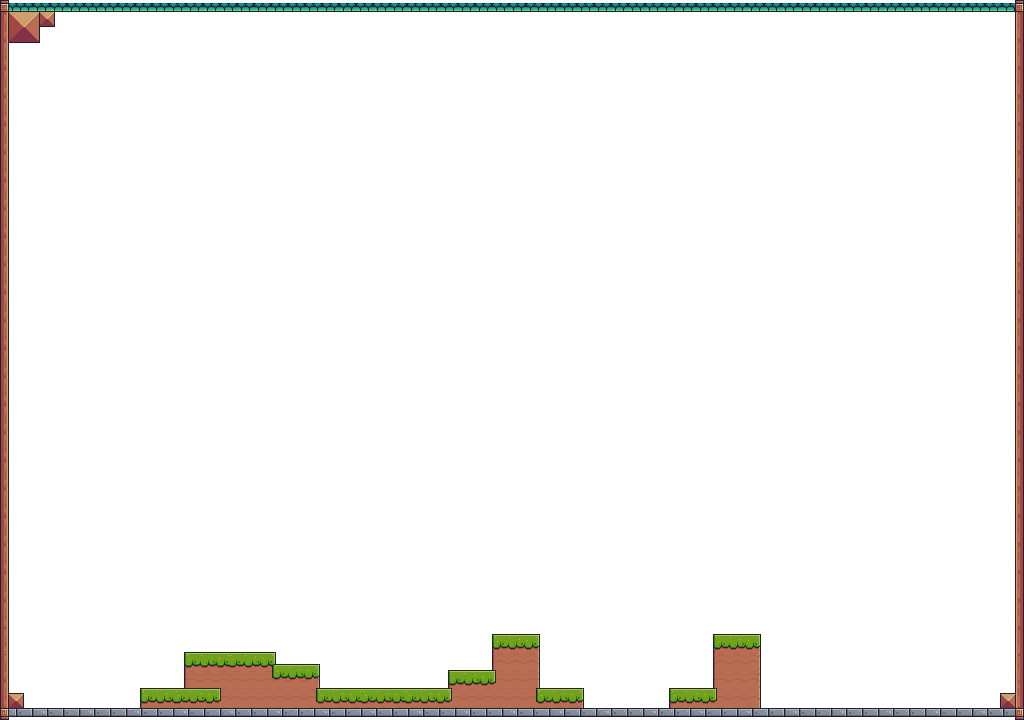
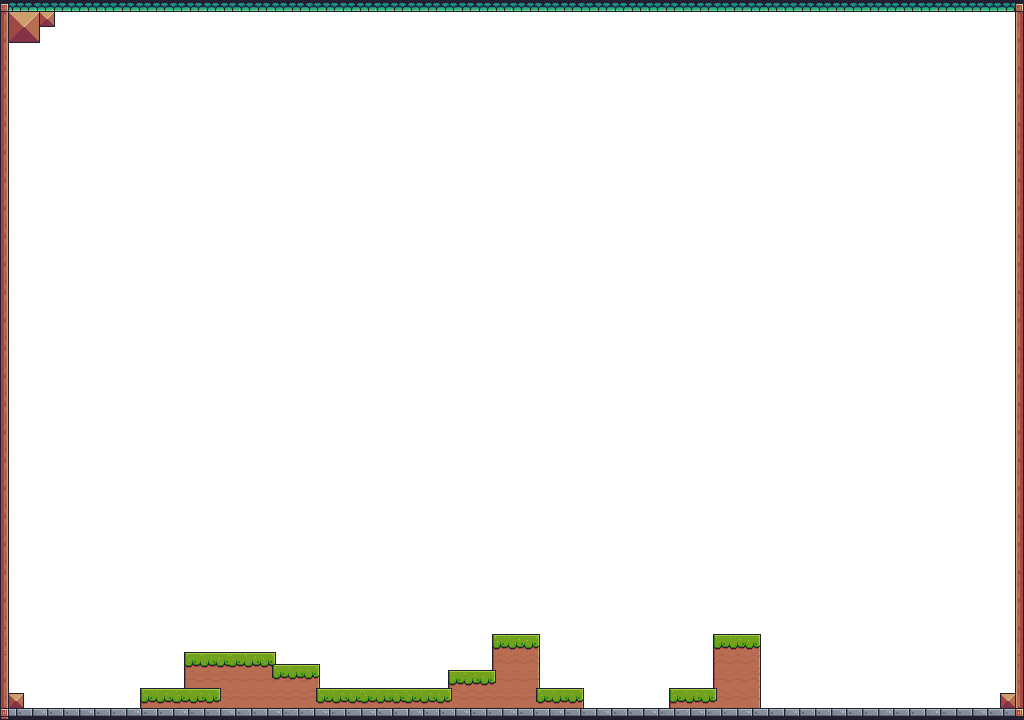
add grass and walls

Changed region(s): [[0.0, 0.9778, 1.0, 1.0], [0.0, 0.0, 1.0, 0.0306]]

diff --git a/Sources/OneScreen/Scenes/GameScene.swift b/Sources/OneScreen/Scenes/GameScene.swift
@@ -11,9 +11,87 @@ class GameScene: Scene {
 
         // Environment
         createEntity(at: .zero) {
-            ParallaxBackgroundBehavior(texture: .background)
             Sprite(texture: .terrain)
 
+            // walls
+            PhysicsBody(
+                shape: .rectangle(size: Vector(x: 9, y: 720)),
+                type: .static
+            )
+            PhysicsBody(
+                shape: .rectangle(size: Vector(x: 9, y: 720)),
+                type: .static,
+                offset: Vector(x: 1015, y: 0)
+            )
+            PhysicsBody(
+                shape: .rectangle(size: Vector(x: 1024, y: 12)),
+                type: .static
+            )
+            PhysicsBody(
+                shape: .rectangle(size: Vector(x: 1024, y: 12)),
+                type: .static,
+                offset: Vector(x: 0, y: 708)
+            )
+
+            // blocks
+            PhysicsBody(
+                shape: .rectangle(size: Vector(x: 32, y: 32)),
+                type: .static,
+                offset: Vector(x: 8, y: 11)
+            )
+            PhysicsBody(
+                shape: .rectangle(size: Vector(x: 16, y: 16)),
+                type: .static,
+                offset: Vector(x: 39, y: 11)
+            )
+            PhysicsBody(
+                shape: .rectangle(size: Vector(x: 16, y: 16)),
+                type: .static,
+                offset: Vector(x: 8, y: 693)
+            )
+            PhysicsBody(
+                shape: .rectangle(size: Vector(x: 16, y: 16)),
+                type: .static,
+                offset: Vector(x: 1000, y: 693)
+            )
+
+            // grass
+            PhysicsBody(
+                shape: .rectangle(size: Vector(x: 444, y: 21)),
+                type: .static,
+                offset: Vector(x: 140, y: 688)
+            )
+            PhysicsBody(
+                shape: .rectangle(size: Vector(x: 92, y: 37)),
+                type: .static,
+                offset: Vector(x: 184, y: 652)
+            )
+            PhysicsBody(
+                shape: .rectangle(size: Vector(x: 45, y: 24)),
+                type: .static,
+                offset: Vector(x: 275, y: 664)
+            )
+            PhysicsBody(
+                shape: .rectangle(size: Vector(x: 45, y: 18)),
+                type: .static,
+                offset: Vector(x: 448, y: 670)
+            )
+            PhysicsBody(
+                shape: .rectangle(size: Vector(x: 48, y: 54)),
+                type: .static,
+                offset: Vector(x: 492, y: 634)
+            )
+            PhysicsBody(
+                shape: .rectangle(size: Vector(x: 45, y: 21)),
+                type: .static,
+                offset: Vector(x: 669, y: 688)
+            )
+            PhysicsBody(
+                shape: .rectangle(size: Vector(x: 48, y: 75)),
+                type: .static,
+                offset: Vector(x: 713, y: 634)
+            )
+            ParallaxBackgroundBehavior(texture: .background)
         }
 
         // Enemies
@@ -24,6 +102,8 @@ class GameScene: Scene {
 
     override func update(deltaTime: Foundation.TimeInterval) {
         super.update(deltaTime: deltaTime)
-        if Input.wasKeyPressed(.tab) { Game.isDebugMode.toggle() }
+        if Input.wasKeyPressed(.tab) {
+            Game.isDebugMode.toggle()
+        }
     }
 }
